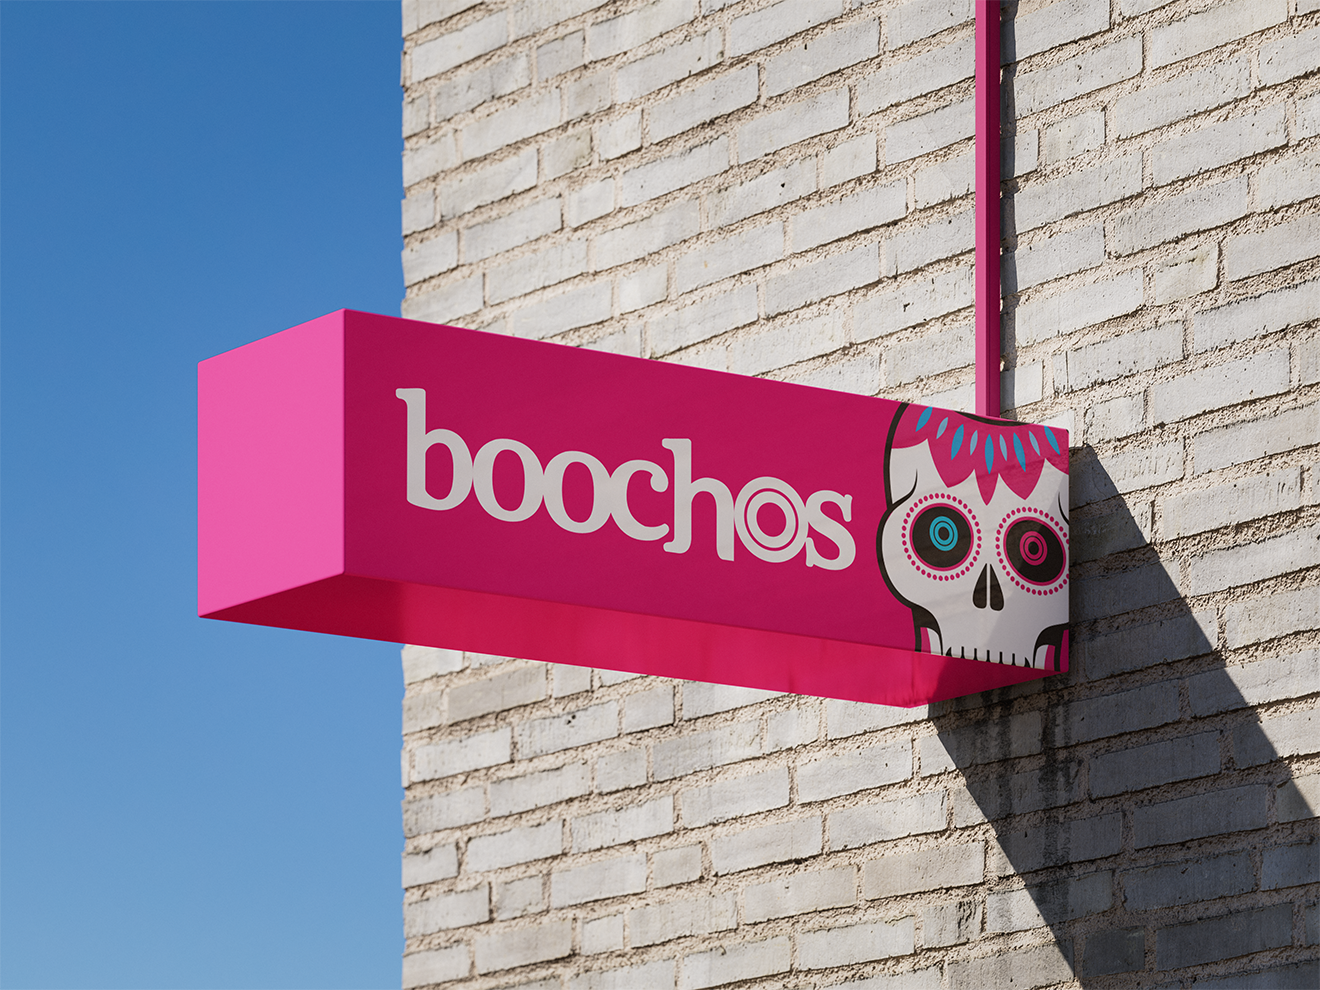
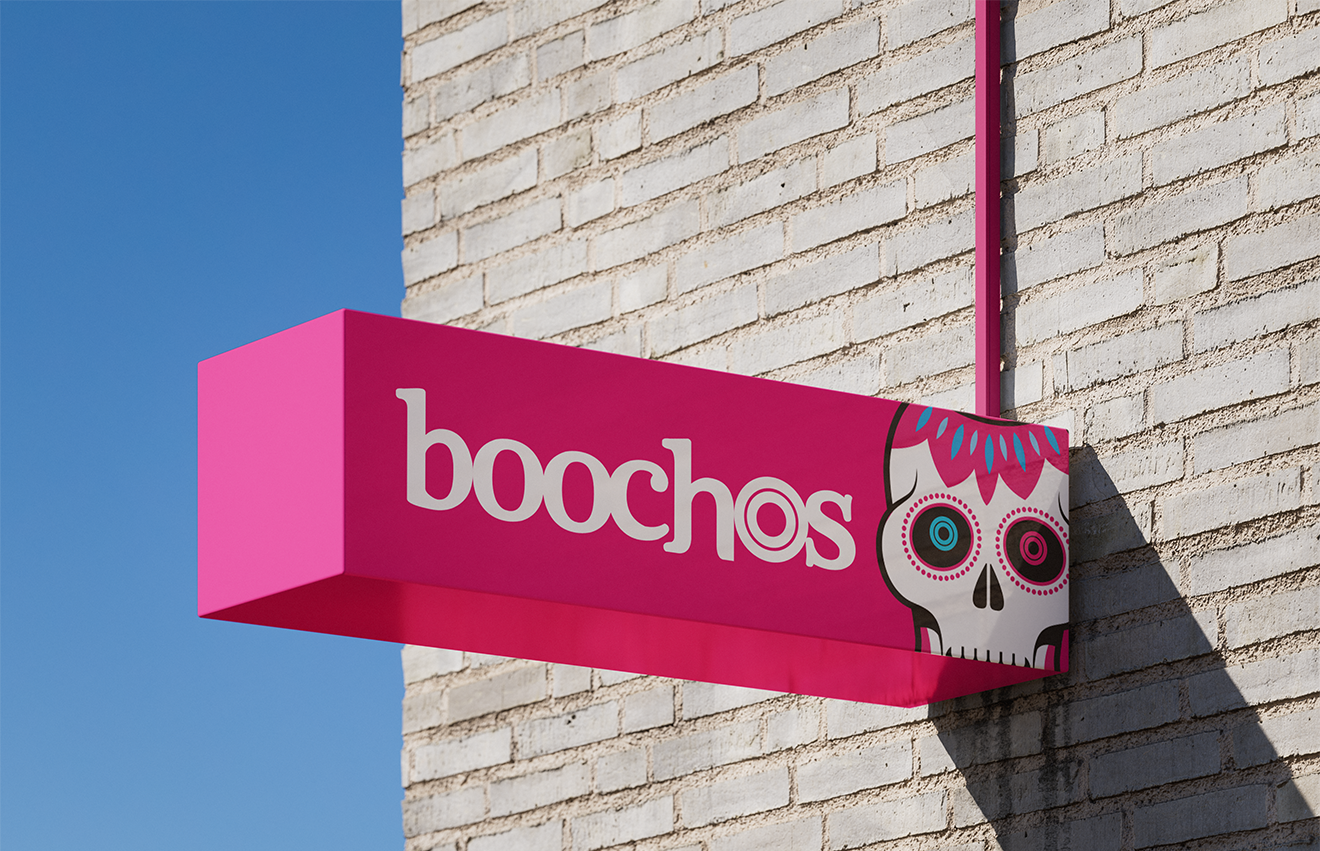
Selected Work mobile cleanup: composition, spacing, and plate fixes
- Set Boochos trailer to 95vw with visible overflow so the full trailer fits the viewport
- Crop Boochos sign asset bottom fringe and remove panel bottom padding on mobile
- Flatten Soot Away and Food Delivery van backgrounds to match plate colors (#aca7d9, #46c2d4)
- Move Flink immediately after Punkt; rebuild mobile merch composition with visible lanyard and overlapping sweatshirt
- Tighten editorial spacing between Punkt, Flink, and Botanic Co. on mobile
- Bump preview cache to site-4

diff --git a/selected-work/index.html b/selected-work/index.html
@@ -14,8 +14,8 @@
       href="https://fonts.googleapis.com/css2?family=Instrument+Sans:ital,wght@0,400;0,500;0,600;0,700;1,400&display=swap"
       rel="stylesheet"
     />
-    <link rel="stylesheet" href="../freedom/styles.css?v=site-3" />
-    <link rel="stylesheet" href="theme.css?v=site-3" />
+    <link rel="stylesheet" href="../freedom/styles.css?v=site-4" />
+    <link rel="stylesheet" href="theme.css?v=site-4" />
   </head>
   <body>
     <a class="skip-link" href="#main">Skip to content</a>
@@ -117,14 +117,14 @@
             <div class="panel__art panel__art--boochos-sign">
               <picture>
                 <source
-                  srcset="images/selected-boochos-sign.webp"
+                  srcset="images/selected-boochos-sign.webp?v=site-4"
                   type="image/webp"
                 />
                 <img
-                  src="images/selected-boochos-sign.png"
+                  src="images/selected-boochos-sign.png?v=site-4"
                   alt="Boochos exterior projecting sign with sugar-skull graphic."
                   width="1320"
-                  height="990"
+                  height="851"
                   loading="lazy"
                   decoding="async"
                 />
@@ -146,11 +146,11 @@
             <div class="panel__art">
               <picture>
                 <source
-                  srcset="images/selected-soot-away-van.webp"
+                  srcset="images/selected-soot-away-van.webp?v=site-4"
                   type="image/webp"
                 />
                 <img
-                  src="images/selected-soot-away-van.png"
+                  src="images/selected-soot-away-van.png?v=site-4"
                   alt="SootAway chimney services van wrap."
                   width="2000"
                   height="1500"
@@ -173,11 +173,11 @@
               <div class="panel__art panel__art--vehicle">
                 <picture>
                   <source
-                    srcset="images/selected-food-delivery-van.webp"
+                    srcset="images/selected-food-delivery-van.webp?v=site-4"
                     type="image/webp"
                   />
                   <img
-                    src="images/selected-food-delivery-van.png"
+                    src="images/selected-food-delivery-van.png?v=site-4"
                     alt="On Wheels food delivery vehicle wrap."
                     width="2000"
                     height="1500"
@@ -254,6 +254,45 @@
 
       <!-- BLACK EDITORIAL -->
       <section class="editorial" aria-label="Further selected work">
+        <figure class="edit edit--merch reveal">
+          <div class="edit__merch">
+            <picture class="edit__merch-lanyard">
+              <source
+                srcset="images/selected-wristband.webp"
+                type="image/webp"
+              />
+              <img
+                src="images/selected-wristband.png"
+                alt="Flink wristband and lanyard merchandise."
+                width="1598"
+                height="984"
+                loading="lazy"
+                decoding="async"
+              />
+            </picture>
+            <picture class="edit__merch-sweat">
+              <source
+                srcset="images/selected-flink-sweatshirt.webp"
+                type="image/webp"
+              />
+              <img
+                class="edit__cutout"
+                src="images/selected-flink-sweatshirt.png"
+                alt="Flink gradient sweatshirt with F mark."
+                width="2000"
+                height="1808"
+                loading="lazy"
+                decoding="async"
+              />
+            </picture>
+          </div>
+          <figcaption class="meta">
+            <span class="meta__name">Flink</span>
+            <span class="meta__desc">Merchandise · Application</span>
+            <span class="meta__tags">Identity · Merch</span>
+          </figcaption>
+        </figure>
+
         <figure class="edit edit--botanic reveal">
           <div class="edit__pair edit__pair--botanic">
             <picture class="edit__dominant">
@@ -384,45 +423,6 @@
           </figure>
         </div>
 
-        <figure class="edit edit--merch reveal">
-          <div class="edit__merch">
-            <picture class="edit__merch-lanyard">
-              <source
-                srcset="images/selected-wristband.webp"
-                type="image/webp"
-              />
-              <img
-                src="images/selected-wristband.png"
-                alt="Flink wristband and lanyard merchandise."
-                width="1598"
-                height="984"
-                loading="lazy"
-                decoding="async"
-              />
-            </picture>
-            <picture class="edit__merch-sweat">
-              <source
-                srcset="images/selected-flink-sweatshirt.webp"
-                type="image/webp"
-              />
-              <img
-                class="edit__cutout"
-                src="images/selected-flink-sweatshirt.png"
-                alt="Flink gradient sweatshirt with F mark."
-                width="2000"
-                height="1808"
-                loading="lazy"
-                decoding="async"
-              />
-            </picture>
-          </div>
-          <figcaption class="meta">
-            <span class="meta__name">Flink</span>
-            <span class="meta__desc">Merchandise · Application</span>
-            <span class="meta__tags">Identity · Merch</span>
-          </figcaption>
-        </figure>
-
         <!-- Motion slots — hidden until files exist -->
         <figure class="edit edit--motion" data-motion="rocket"></figure>
         <figure
@@ -477,7 +477,7 @@
       </div>
     </footer>
 
-    <script src="../freedom/main.js?v=site-3" defer></script>
-    <script src="hero.js?v=site-3" defer></script>
+    <script src="../freedom/main.js?v=site-4" defer></script>
+    <script src="hero.js?v=site-4" defer></script>
   </body>
 </html>

diff --git a/selected-work/theme.css b/selected-work/theme.css
@@ -5,8 +5,8 @@
   --accent: #f4c542;
   /* Match supplied artwork edge tones so panels read as one continuous field */
   --plate-boochos: #c5357a;
-  --plate-soot: #a7a1d7;
-  --plate-food: #43c1d4;
+  --plate-soot: #aca7d9;
+  --plate-food: #46c2d4;
   --plate-punkt: #fee103;
   --edit-radius: 14px;
 }
@@ -252,13 +252,14 @@
   width: 100%;
   max-width: none;
   margin-inline: 0;
-  overflow: hidden;
+  overflow: visible;
 }
 
 .panel--boochos .panel__art--boochos-hero picture {
   display: block;
-  width: 132vw;
-  margin-left: calc(50% - 66vw);
+  width: 95vw;
+  max-width: 100%;
+  margin-inline: auto;
   background: var(--plate-boochos);
 }
 
@@ -272,12 +273,15 @@
 .panel--boochos .panel__art--boochos-sign {
   width: 100%;
   margin: clamp(0.65rem, 2.5vw, 1.1rem) 0 0;
+  overflow: hidden;
+  line-height: 0;
 }
 
 .panel--boochos .panel__art--boochos-sign img {
   width: 100%;
   height: auto;
   border-radius: 0;
+  vertical-align: bottom;
 }
 
 .panel--soot {
@@ -285,8 +289,10 @@
   color: #f54e20;
 }
 
+.panel--soot .panel__inner,
 .panel--soot .panel__art,
-.panel--soot .panel__art picture {
+.panel--soot .panel__art picture,
+.panel--soot .panel__art img {
   background: var(--plate-soot);
 }
 
@@ -314,7 +320,6 @@
   width: 100%;
   max-width: none;
   margin-inline: 0;
-  background: transparent;
 }
 
 .panel--soot .panel__art img,
@@ -322,7 +327,6 @@
 .panel--punkt .panel__art img {
   width: 100%;
   max-width: none;
-  background: transparent;
 }
 
 /* Staged compositions — vehicle/hero + floating application */
@@ -387,10 +391,10 @@
 }
 
 .panel--food .panel__stage,
-.panel--food .panel__art,
-.panel--food .panel__art picture,
-.panel--food .panel__float {
-  background: transparent;
+.panel--food .panel__art--vehicle,
+.panel--food .panel__art--vehicle picture,
+.panel--food .panel__art--vehicle img {
+  background: var(--plate-food);
 }
 
 .panel--food .panel__tags {
@@ -541,7 +545,6 @@
   position: relative;
   display: block;
   width: 100%;
-  padding-bottom: clamp(1.5rem, 6vw, 2.5rem);
 }
 
 .edit__merch-lanyard {
@@ -554,14 +557,14 @@
   width: 100%;
   height: auto;
   border-radius: 0;
+  background: transparent;
 }
 
 .edit__merch-sweat {
   position: absolute;
-  top: clamp(-0.5rem, -2vw, 0.75rem);
-  right: clamp(-0.35rem, -2vw, 0.5rem);
-  width: min(72vw, 20rem);
   z-index: 2;
+  pointer-events: none;
+  user-select: none;
 }
 
 .edit__merch-sweat img {
@@ -629,6 +632,89 @@
 
 .section--summary .section-title {
   max-width: 14ch;
+}
+
+/* ——— Mobile composition cleanup ——— */
+
+@media (max-width: 767px) {
+  /* Boochos — trailer fits viewport; sign ends flush with Soot Away */
+  .panel--boochos {
+    padding-bottom: 0;
+  }
+
+  .panel--boochos .panel__art--boochos-hero picture {
+    width: 95vw;
+  }
+
+  .panel--boochos .panel__art--boochos-sign {
+    margin: clamp(0.65rem, 2.5vw, 1.1rem) 0 0;
+    overflow: hidden;
+    line-height: 0;
+  }
+
+  .panel--boochos .panel__art--boochos-sign img {
+    margin-bottom: 0;
+  }
+
+  /* Soot / Food — one continuous plate behind artwork */
+  .panel--soot,
+  .panel--soot .panel__inner,
+  .panel--soot .panel__art,
+  .panel--soot .panel__art picture,
+  .panel--soot .panel__art img {
+    background: var(--plate-soot);
+  }
+
+  .panel--soot .panel__art {
+    overflow: hidden;
+  }
+
+  .panel--food,
+  .panel--food .panel__inner,
+  .panel--food .panel__stage,
+  .panel--food .panel__art--vehicle,
+  .panel--food .panel__art--vehicle picture,
+  .panel--food .panel__art--vehicle img {
+    background: var(--plate-food);
+  }
+
+  .panel--food .panel__art--vehicle {
+    overflow: hidden;
+  }
+
+  /* Punkt → Flink → Botanic — normal editorial rhythm */
+  .editorial {
+    padding-top: clamp(1.5rem, 5vw, 2rem);
+    gap: clamp(1.5rem, 5vw, 2.25rem);
+  }
+
+  /* Flink — lanyard base + overlapping sweatshirt, large on mobile */
+  .edit--merch {
+    width: 100vw;
+    max-width: none;
+    margin-left: calc(50% - 50vw);
+    margin-right: 0;
+    margin-bottom: clamp(1.75rem, 8vw, 2.75rem);
+  }
+
+  .edit--merch .meta {
+    padding-inline: var(--pad-x);
+  }
+
+  .edit__merch {
+    min-height: 0;
+    padding-bottom: clamp(4.25rem, 20vw, 6.25rem);
+  }
+
+  .edit__merch-lanyard {
+    width: 100%;
+  }
+
+  .edit__merch-sweat {
+    top: clamp(-0.5rem, -1.5vw, 0.15rem);
+    left: clamp(24%, 30vw, 32%);
+    width: min(76vw, 21.5rem);
+  }
 }
 
 /* ——— Desktop ——— */
